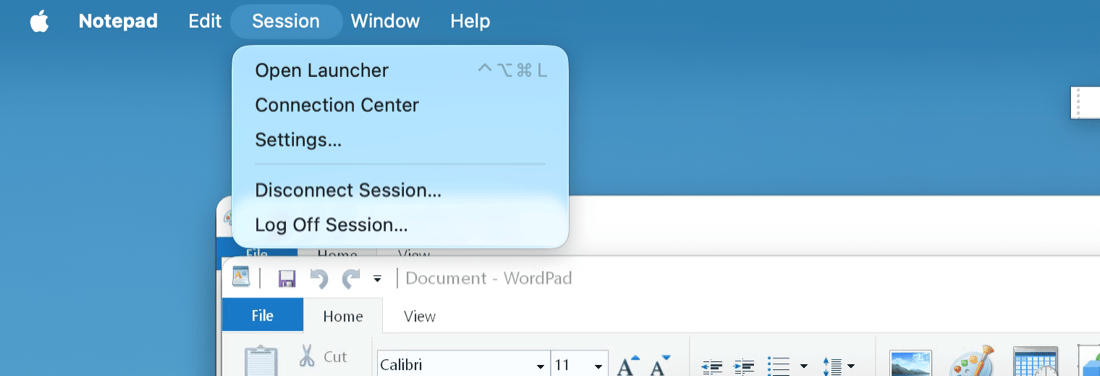
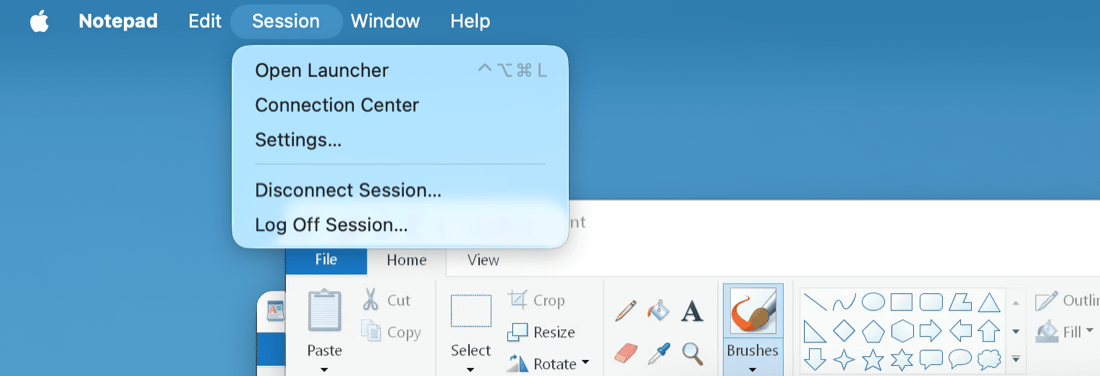
0.9.0: version, README and FEATURES (microphone verified and on by default, keyboard Option/shortcut fix), manual chapters for the microphone default, manual screenshots rebuilt

diff --git a/FEATURES.md b/FEATURES.md
@@ -1,7 +1,7 @@
 # Feature matrix: stock Citrix Workspace app vs ICAViewer
 
 ICAViewer is an independent project and is not affiliated with Citrix. The stock columns summarise
-Citrix's public documentation (links under Sources). The Ours column describes ICAViewer v0.8.0 as
+Citrix's public documentation (links under Sources). The Ours column describes ICAViewer v0.9.0 as
 of 2026-11-18; how each feature behaves is described in the README and under `docs/`.
 
 ## At a glance
@@ -10,10 +10,10 @@ of 2026-11-18; how each feature behaves is described in the README and under `do
   gateway, seamless apps as native Mac windows with their own Dock entries, several apps in one
   session, a published desktop in one window, reconnect and survival of network drops, Thinwire and
   H.264 graphics, Retina scaling, text, image, rich text and file clipboard, a shared client drive,
-  audio playback, PDF printing, the keyboard layout announced at sign-in, sign-out, and an indicator
-  for features the server refuses.
-- **Built, not yet verified live:** microphone (the test servers never opened it), webcam with a real
-  camera; the automatic reconnect after a long drop is verified in the lab, a by-hand Wi-Fi test is open.
+  audio playback, the microphone, PDF printing, the keyboard layout announced at sign-in, sign-out, and an
+  indicator for features the server refuses.
+- **Built, not yet verified live:** webcam with a real camera; the automatic reconnect after a long drop is
+  verified in the lab, a by-hand Wi-Fi test is open.
 - **Main gaps:** links opening on the Mac, several monitors for a desktop, HTML on the clipboard (the
   server filters it), SAML, smart card and FIDO2, USB devices, UDP transport (an experimental path
   exists, off), Teams optimization.
@@ -120,10 +120,10 @@ of 2026-11-18; how each feature behaves is described in the README and under `do
 
 | Feature | Win | Mac | Linux | Web | ChromeOS | iOS | Android | Ours | Notes |
 |---|---|---|---|---|---|---|---|---|---|
-| Keyboard layout sync to a Windows VDA | Yes | Yes | Yes | No | No | Yes | Yes | Yes | Ours: the Mac's input source at sign-in (DE, US, UK, FR, CH, NL, ES, IT, Dvorak and more); after a switch, characters go as text; verified headless |
+| Keyboard layout sync to a Windows VDA | Yes | Yes | Yes | No | No | Yes | Yes | Yes | Ours: the Mac's input source at sign-in (DE, US, UK, FR, CH, NL, ES, IT, Dvorak and more); after a switch, characters go as text; verified headless and in the macOS test VM |
 | Keyboard layout sync to a Linux VDA | Yes | Yes | Yes | No | No | Yes | Yes | ? | |
 | Scancode keyboard mode | Yes | Yes | Yes | Yes | Yes | No | No | Yes | |
-| Unicode keyboard mode | No | Yes | Yes | Yes | Yes | Yes | Yes | Partly | Ours: Option-composed characters, and printable keys while the Mac layout differs from the logon layout (D141, D160) |
+| Unicode keyboard mode | No | Yes | Yes | Yes | Yes | Yes | Yes | Partly | Ours: Option-composed characters (€, @; such an Option never acts as Alt), and printable keys while the Mac layout differs from the logon layout; Cmd and Ctrl shortcuts stay keys, placed by the session's layout (D141, D160) |
 | Local input method for Chinese, Japanese, Korean | Yes | Yes | No | Yes | Yes | Yes | Yes | No | CTXIME |
 | Server input method for Chinese, Japanese, Korean | Yes | Yes | Yes | Yes | Yes | Yes | Yes | ? | Ours: needs only key events |
 | Mouse and wheel | Likely | Likely | Likely | Likely | Likely | Likely | Likely | Yes | |
@@ -154,7 +154,7 @@ of 2026-11-18; how each feature behaves is described in the README and under `do
 | Scanners | Yes | No | Partly | No | Yes | No | No | No | Windows: TWAIN, WIA (not LTSR). Linux: SANE. ChromeOS 2411.1; matrix says no |
 | Webcam | Yes | Yes | Yes | Yes | Yes | Yes | Yes | Built | Ours: 32-bit host apps only; no real camera tried |
 | Audio playback | Yes | Yes | Yes | Yes | Yes | Yes | Yes | Yes | |
-| Microphone | Yes | Yes | Yes | Yes | Yes | Yes | Yes | Built | Ours: off by default; the test servers' VDA never opened the capture device, so nothing has been recorded |
+| Microphone | Yes | Yes | Yes | Yes | Yes | Yes | Yes | Yes | Ours: on by default from 0.9.0; opens only while a session app records, macOS asks at the first recording; a menu-bar item while recording with "Disable Microphone for This Session"; Opus |
 | Audio over UDP | Yes | No | Yes | No | No | No | No | No | |
 | Location | Yes | Partly | No | No | No | Yes | Yes | No | Mac 2607 preview; matrix says no |
 | Mobile device features (mobility pack) | Yes | No | No | Yes | Yes | Yes | Yes | No | |
@@ -240,8 +240,7 @@ Libraries next to them: `libUrlRedirection_client.dylib` (link redirection), `li
 
 Ordered for daily use through a gateway with mail and line-of-business applications.
 
-1. **Microphone and webcam.** Implemented; the test servers never opened the capture device, and no real
-   camera has been tried (only 32-bit host apps can use the webcam).
+1. **Webcam.** Implemented; no real camera has been tried, and only 32-bit host apps can use it.
 2. **Several monitors in a published desktop**, and more than one fixed-size window for it.
 3. **File transfer** beyond clipboard files and the shared folder; HTML on the clipboard (filtered by the server).
 4. **Authentication** beyond ExplicitForms with TOTP and plain StoreFront forms (SAML, smart card, FIDO2),

diff --git a/manual/16-privacy-security.md b/manual/16-privacy-security.md
@@ -6,7 +6,7 @@ This chapter says what ICA Viewer stores and what leaves your Mac.
 
 - **The connection to your organization's server.** ICA Viewer connects only to the gateway or store address you give it, and from there to the session. The connection is encrypted with TLS. ICA Viewer has no server of its own and sends no data to its authors or to anyone else.
 - **Your sign-in.** Your user name, password and one-time code go to your organization's gateway or store, as with any Citrix client.
-- **What you choose to share.** The clipboard, files you copy, a shared folder, the microphone or the camera reach the session only when you turn these on or use them (see below).
+- **What you choose to share.** The clipboard, files you copy, a shared folder, the microphone or the camera reach the session only when you turn these on or use them (see below). The microphone is on by default, but it is used only while a remote app records, and only after you allowed it when macOS asked.
 - **Reports.** A problem report is sent only when you create a GitHub issue yourself, after you have read the preview ([Report a Problem](13-report-a-problem.md)).
 
 ICA Viewer does not check for updates and does not collect usage data.
@@ -28,14 +28,14 @@ ICA Viewer does not check for updates and does not collect usage data.
 - It **cannot** see your Mac's files, unless you share a folder or copy files into the session.
 - It **can read and change everything in the shared folder** while the client drive is on. Use a folder just for this, or **Read-only**.
 - It can read the **clipboard** when you copy or paste with the session: do not copy secrets you do not want a remote app to see.
-- It can use the **microphone** or the **camera** only when you allowed them in **Settings** and in macOS. The menu bar shows when they are in use, and you can switch them off for the current session.
+- It can use the **microphone** only while it records and you allowed it in macOS (you can turn it off in **Settings**), and the **camera** only when you allowed it in **Settings** and in macOS. The menu bar shows when they are in use, and you can switch them off for the current session.
 - Files from the session carry the macOS **quarantine flag**, so macOS checks them before opening.
 
 ## Permissions macOS may ask for
 
 | Permission | When |
 |---|---|
-| Microphone | A remote app records and **Pass the microphone to the session** is on |
+| Microphone | A remote app records for the first time (**Pass the microphone to the session** is on by default) |
 | Camera | A remote app uses the camera and **Pass the camera to the session** is on |
 | Files and Folders | You share a folder or copy files |
 | Touch ID | Reading a protected saved password or TOTP secret |

diff --git a/manual/08-audio-video.md b/manual/08-audio-video.md
@@ -8,20 +8,20 @@ If your server blocks audio, the [Connection Center](10-connection-center.md#fea
 
 ## Microphone
 
-> **Not verified.** The microphone is implemented, but on the servers it was tested against, the Windows session never opened it, so nothing was recorded. It may not work with your server.
+The microphone is **on by default**. To use it, for example for a voice recorder or a call in a remote app:
 
-The microphone is **off by default**. To use it, for example for a voice recorder or a call in a remote app:
-
-1. In **Settings > Devices**, tick **Pass the microphone to the session**.
-2. Start a session. When a remote app starts recording, macOS asks whether ICA Viewer may use the microphone. Click **OK**.
+1. Start a session and start recording in the remote app.
+2. The first time, macOS asks whether ICA Viewer may use the microphone. Click **Allow**. The remote app waits for your answer.
 
 ICA Viewer sends sound to the session only while an app in the session is recording. While it does, a microphone icon appears in the menu bar. Click it to see **Microphone: recording** and the item **Disable Microphone for This Session**, which stops it for the current session at once.
 
 If you refused the permission, ICA Viewer says so and offers **Open Privacy Settings**; allow ICA Viewer under **System Settings > Privacy & Security > Microphone**.
 
+To never pass the microphone, clear **Pass the microphone to the session** in **Settings > Devices** ([Settings](12-settings.md#audio-and-camera)); the change applies from the next time you connect.
+
 ## Webcam
 
-The webcam is **off by default** too. In **Settings > Devices**, tick **Pass the camera to the session** and, if you have several cameras, pick one in the list below it (the default is **Automatic (system default)**). macOS asks for permission the first time a remote app starts the camera.
+The webcam is **off by default**. In **Settings > Devices**, tick **Pass the camera to the session** and, if you have several cameras, pick one in the list below it (the default is **Automatic (system default)**). macOS asks for permission the first time a remote app starts the camera.
 
 - The camera is used only while a remote app uses it. A camera icon appears in the menu bar. Click it to see **Camera: in use** and **Disable Camera for This Session**.
 - **Only 32-bit Windows apps can use this webcam path.** Modern 64-bit apps (for example Windows Camera, Teams or browsers) will not see the camera.

diff --git a/README.md b/README.md
@@ -44,7 +44,7 @@ product and not a replacement for the official client. Expect gaps; see [Status]
 
 The screenshots come from a test lab (macOS VM, example user and apps).
 
-## What it does (0.8.0)
+## What it does (0.9.0)
 
 - **Sign in** through a gateway (user name, password, one-time code) or to a StoreFront store
   directly; optional Keychain storage with Touch ID; Sign Out.
@@ -53,7 +53,8 @@ The screenshots come from a test lab (macOS VM, example user and apps).
 - **Sessions survive trouble:** short network drops, automatic reconnect after longer ones, a
   Connection Center to reconnect, disconnect or log off, and a notice for features the server blocks.
 - **Clipboard:** text, images, rich text, and files and folders both ways (large copies with progress).
-- **Client drive, PDF printing, audio playback**, Retina-sharp display, keyboard layout of the Mac.
+- **Client drive, PDF printing, audio playback and the microphone** (on by default; used only while a
+  remote app records, after macOS asks once), Retina-sharp display, keyboard layout of the Mac.
 - A Mac-style interface (Settings panes, menus, VoiceOver), English and German, and a scrubbed
   **Report a Problem** (Help menu): nothing is sent unless you submit it, and you see exactly what it
   contains first.
@@ -63,9 +64,9 @@ The screenshots come from a test lab (macOS VM, example user and apps).
 Verified live means run against a test lab. See [FEATURES.md](FEATURES.md) for the comparison with
 the official clients.
 
-- **Not verified:** the **microphone** (the test servers' VDA never opened the capture device) and the
-  **webcam** with a real camera. The automatic reconnect after a long outage has not been tried by hand
-  on a real Wi-Fi drop, and a keyboard layout switch has been checked against the protocol, not by hand.
+- **Not verified:** the **webcam** with a real camera. The automatic reconnect after a long outage has
+  not been tried by hand on a real Wi-Fi drop, and a keyboard layout switch has been checked in a test
+  VM, not by hand.
 - **Limits:** a published desktop has a fixed size and one screen; HTML on the clipboard is filtered by
   the server; large copies are slow where the server paces file transfers.
 - **Not implemented:** SAML, smart card and FIDO2 sign-in, USB devices, links opening on the Mac,

diff --git a/manual/01-installation.md b/manual/01-installation.md
@@ -23,7 +23,8 @@ The app is signed with a Developer ID and notarized by Apple, so it opens like a
 
 On the first start ICA Viewer shows the **Sign In** window ([Signing in](02-signing-in.md)). Nothing is read from your Mac, and no folder or device is shared, until you sign in and start an app. macOS asks for permission the first time a feature needs it:
 
-- **Microphone** and **Camera**, only if you turn those features on in **Settings** and a remote app uses them ([Audio, microphone and webcam](08-audio-video.md)).
+- **Microphone**, the first time a remote app records ([Audio, microphone and webcam](08-audio-video.md)).
+- **Camera**, only if you turn it on in **Settings** and a remote app uses it.
 - **Files and Folders**, when you share a folder or copy files.
 
 > **If macOS refuses to open the app.** A build that is not notarized (for example one you built yourself) is blocked on its first start. Open **System Settings > Privacy & Security**, scroll down and click **Open Anyway** for ICAViewer. Alternatively, run `xattr -dr com.apple.quarantine /Applications/ICAViewer.app` in Terminal.

diff --git a/manual/12-settings.md b/manual/12-settings.md
@@ -58,7 +58,7 @@ Secrets are stored only in the Keychain on this Mac, never in iCloud. See [Signi
 ### Audio and camera
 
 - **Play session sounds** (on by default). The volume follows the Mac.
-- **Pass the microphone to the session** (off by default): only while a session app records.
+- **Pass the microphone to the session** (on by default): only while a session app records; macOS asks the first time. See [Audio, microphone and webcam](08-audio-video.md).
 - **Pass the camera to the session** (off by default), with a list of cameras (**Automatic (system default)** or a named camera). Only while a session app uses it; 32-bit apps only. See [Audio, microphone and webcam](08-audio-video.md).
 
 ## Display

diff --git a/manual/README.md b/manual/README.md
@@ -1,6 +1,6 @@
 # ICA Viewer User Manual
 
-Version <!-- version -->0.8.0<!-- /version -->
+Version <!-- version -->0.9.0<!-- /version -->
 
 ICA Viewer is a Mac app for working with Windows apps that your organization publishes through Citrix. Each remote app opens in its own Mac window, with its own Dock icon, and works with Cmd-Tab, Mission Control and your window switcher like any local app.
 
